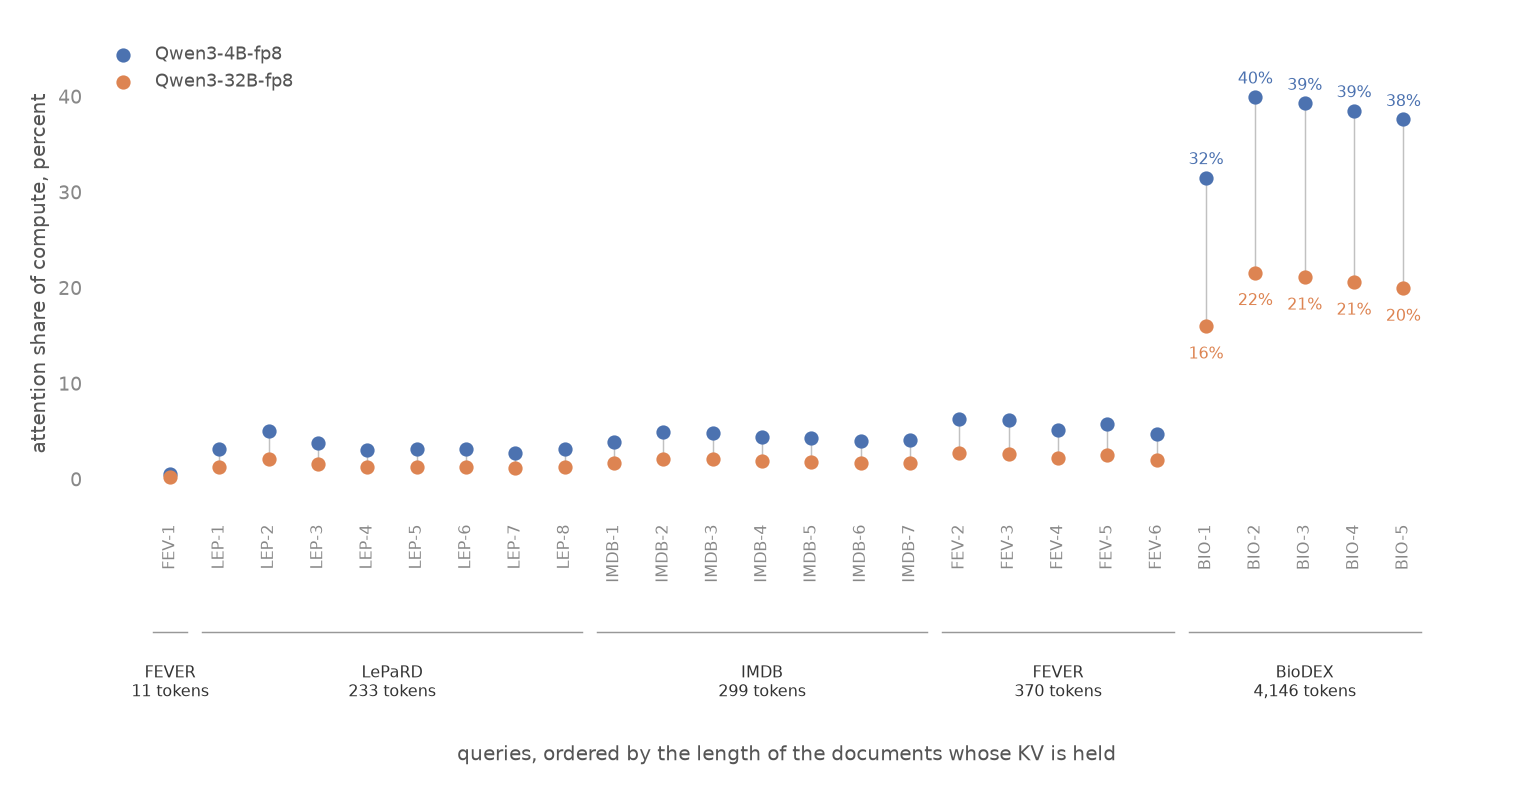
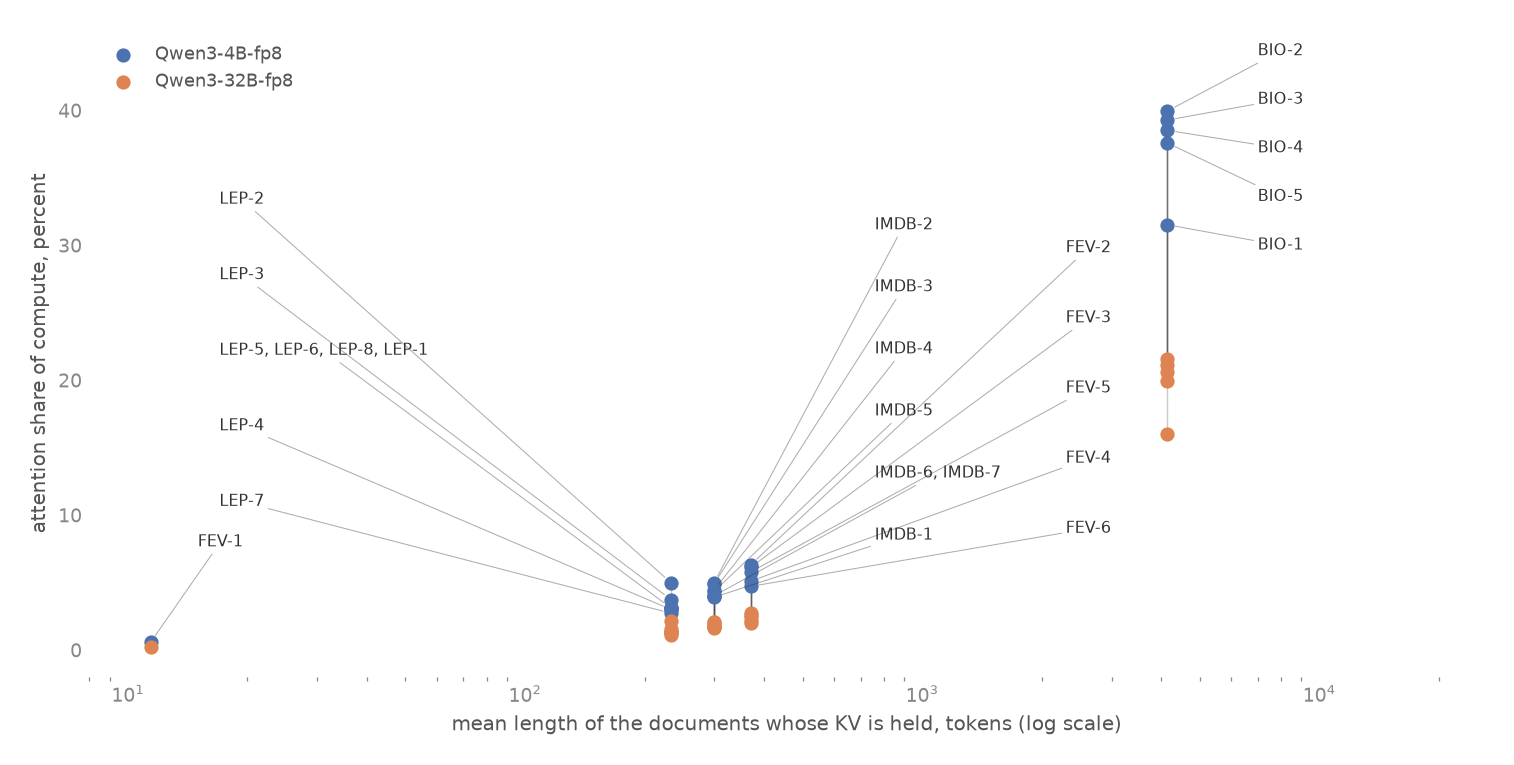
Put the attention figure back on a true document-length axis
x is the mean length of the held documents again, log scale, and
every query is labelled. The labels sit out in the empty space with
a leader line back to their dot, because 21 of the 26 queries hold
documents between 233 and 370 tokens and their dots pile into one
band.

Queries whose dots coincide share a label: LEP-1, LEP-5, LEP-6 and
LEP-8 are one point, since LEP1 leaves 4 documents of 200 and LEP3
leaves none. The merge is by an absolute tolerance rather than
rounding, so IMDB-2 and IMDB-3 keep their own labels at 4.95% and
4.87%. A faint line joins each query's two model dots.

Claude-Session: https://claude.ai/code/session_01QTPQAmNeew6H2VMfLurGdt

diff --git a/reports/make_sol_quailb_plots.py b/reports/make_sol_quailb_plots.py
@@ -56,72 +56,77 @@ def plot_sol_per_query():
     fig.savefig(OUT / "sol_quailb_per_query.png", dpi=150)
 
 
-# the document set each held column belongs to. FEVER shows up
-# twice: FEV-1 filters claims and holds them, while the FEVER joins
-# hold the evidence passages instead.
-HELD_NAME = {"reviews.body": "IMDB", "reports.report": "BioDEX",
-             "claims.claim": "FEVER", "evidence.text": "FEVER",
-             "citations.destination_context": "LePaRD",
-             "citations.passage_text": "LePaRD"}
+# Where each cluster's labels go: (label x, first label y, y step,
+# text alignment). Twenty-one of the 26 queries hold documents
+# between 233 and 370 tokens, so their dots pile into one narrow band
+# and the labels have to sit out in the empty space with a leader
+# line back. The two free regions are left of 233 and right of 370.
+LABEL_SLOTS = {
+    11.4: (15.0, 8.0, 0.0, "left"),
+    233.1: (17.0, 11.0, 5.6, "left"),
+    298.8: (760.0, 8.5, 4.6, "left"),
+    370.2: (2300.0, 9.0, 5.2, "left"),
+    4146.0: (7000.0, 30.0, 3.6, "left"),
+}
 
 
 def plot_attention_share():
-    """Where each query's compute goes, ordered by the length of the
+    """Where each query's compute goes, against the length of the
     documents whose KV is held.
 
     Attention pairs are quadratic in that length, so the share climbs
-    left to right and jumps at BioDEX's 4,146-token reports. The 32B
-    dot is always below the 4B one: attention scales 3.56x with model
-    size where the dense projections scale 8.59x.
+    with it and jumps at BioDEX's 4,146-token reports. The 32B dot
+    sits below the 4B one everywhere: attention scales 3.56x with
+    model size where the dense projections scale 8.59x.
 
-    Held length is the x ordering rather than the x value. Twenty-one
-    of the 26 queries hold documents between 233 and 370 tokens, so
-    on a true length axis they stack into one band and their labels
-    cannot be read.
+    Queries whose dots coincide share a label. LEP-1, LEP-5, LEP-6
+    and LEP-8 land on the same point because LEP1 leaves 4 documents
+    of 200 and LEP3 leaves none, so their later stages and joins cost
+    nothing.
     """
-    order = sorted(ORDER, key=lambda q: (Q[q]["held_mean_doc_tokens"], q))
-    x = list(range(len(order)))
-
     def share(q, model):
         m = Q[q]["models"][model]
         return 100 * m["t_attention"] / m["t_compute"]
 
-    lo = [share(q, "qwen3-32b-fp8") for q in order]
-    hi = [share(q, "qwen3-4b-fp8") for q in order]
+    fig, ax = plt.subplots(figsize=(10, 5.0))
+    ax.vlines([Q[q]["held_mean_doc_tokens"] for q in ORDER],
+              [share(q, "qwen3-32b-fp8") for q in ORDER],
+              [share(q, "qwen3-4b-fp8") for q in ORDER],
+              color=DARK, lw=0.7, alpha=0.25)
+    for model, colour, label in (("qwen3-4b-fp8", BLUE, "Qwen3-4B-fp8"),
+                                 ("qwen3-32b-fp8", ORANGE,
+                                  "Qwen3-32B-fp8")):
+        ax.scatter([Q[q]["held_mean_doc_tokens"] for q in ORDER],
+                   [share(q, model) for q in ORDER],
+                   s=34, color=colour, label=label, zorder=3)
 
-    fig, ax = plt.subplots(figsize=(10, 5.2))
-    ax.vlines(x, lo, hi, color=DARK, lw=0.7, alpha=0.3)
-    ax.scatter(x, hi, s=34, color=BLUE, label="Qwen3-4B-fp8", zorder=3)
-    ax.scatter(x, lo, s=34, color=ORANGE, label="Qwen3-32B-fp8", zorder=3)
-    for i, q in enumerate(order):
-        if q.startswith("BIO"):
-            ax.text(i, hi[i] + 1.4, f"{hi[i]:.0f}%", ha="center",
-                    fontsize=7.5, color=BLUE)
-            ax.text(i, lo[i] - 3.4, f"{lo[i]:.0f}%", ha="center",
-                    fontsize=7.5, color=ORANGE)
+    # one label per distinct dot, listing every query that lands on it
+    for held, (lx, ly, dy, ha) in LABEL_SLOTS.items():
+        here = [q for q in ORDER
+                if abs(Q[q]["held_mean_doc_tokens"] - held) < 0.05]
+        # merge only dots that genuinely coincide, so LEP-1, 5, 6 and
+        # 8 share a label but IMDB-2 and IMDB-3 keep their own
+        merged = []
+        for q in sorted(here, key=lambda q: share(q, "qwen3-4b-fp8")):
+            y = share(q, "qwen3-4b-fp8")
+            if merged and y - merged[-1][0] < 0.05:
+                merged[-1][1].append(q)
+            else:
+                merged.append((y, [q]))
+        for j, (y, qs) in enumerate(merged):
+            ty = ly + j * dy
+            ax.annotate(", ".join(qs), xy=(held, y), xytext=(lx, ty),
+                        fontsize=7.5, color=DARK, ha=ha, va="center",
+                        arrowprops=dict(arrowstyle="-", color=DARK,
+                                        lw=0.5, alpha=0.4,
+                                        shrinkA=0, shrinkB=4))
 
-    # one bracket per held corpus, with the length that puts it there
-    trans = ax.get_xaxis_transform()
-    start = 0
-    for i in range(len(order) + 1):
-        held = Q[order[start]]["held_column"]
-        if i < len(order) and Q[order[i]]["held_column"] == held:
-            continue
-        mean = Q[order[start]]["held_mean_doc_tokens"]
-        mid = (start + i - 1) / 2
-        ax.plot([start - 0.35, i - 1 + 0.35], [-0.235, -0.235],
-                transform=trans, color=DARK, lw=0.7, alpha=0.5,
-                clip_on=False)
-        ax.text(mid, -0.30, f"{HELD_NAME[held]}\n{mean:,.0f} tokens",
-                transform=trans, ha="center", va="top", fontsize=7.5,
-                color=DARK)
-        start = i
-    ax.set_xticks(x)
-    ax.set_xticklabels(order, rotation=90, fontsize=7.5)
+    ax.set_xscale("log")
+    ax.set_xlim(8, 26_000)
+    ax.set_ylim(-2, 46)
+    ax.set_xlabel("mean length of the documents whose KV is held, "
+                  "tokens (log scale)")
     ax.set_ylabel("attention share of compute, percent")
-    ax.set_xlabel("queries, ordered by the length of the documents "
-                  "whose KV is held", labelpad=78)
-    ax.set_ylim(-4, 47)
     ax.legend(frameon=False, loc="upper left", fontsize=8.5)
     fig.tight_layout()
     fig.savefig(OUT / "sol_quailb_attention_share.png", dpi=150)

diff --git a/reports/2026-08-25-sol-quailb.md b/reports/2026-08-25-sol-quailb.md
@@ -168,10 +168,12 @@ The two compute terms grow differently. `T_dense` is linear in
 tokens; `T_attention` is quadratic in the length of the document
 whose KV is held, because a sequence of length `m` scores `T(m)`
 pairs. So the longer the held document, the larger attention's share
-of the work. The figure orders the 26 queries by that length, and
-the share climbs across it. FEVER appears at both ends: FEV-1
-filters claims and holds them at 11 tokens, while the FEVER joins
-hold the 370-token evidence passages instead.
+of the work. The figure plots every query against that length.
+FEVER appears at both ends of it: FEV-1 filters claims and holds
+them at 11 tokens, while the FEVER joins hold the 370-token
+evidence passages instead. LEP-1, LEP-5, LEP-6 and LEP-8 land on
+one point, because LEP1 leaves 4 documents of 200 and LEP3 leaves
+none, so their later stages and joins cost nothing.
 
 The two terms also scale differently with model size. `T_dense`
 scales with the parameter count, 31,206,298,624 over 3,633,511,936
